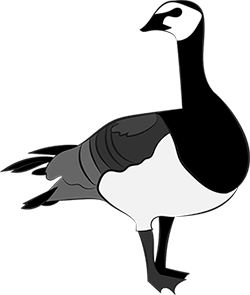
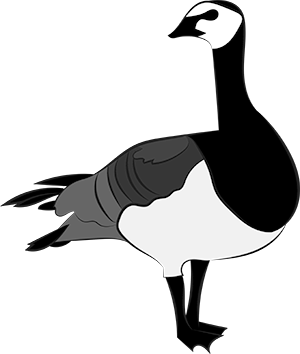
Small fixes

diff --git a/index.html b/index.html
@@ -31,7 +31,7 @@
 				<div class="collapse navbar-collapse row" id="bs-example-navbar-collapse-1">
 					<ul class="nav navbar-nav" id="dropdown">
 						<li>
-							<a href="#first-page" class="color-change">Main</a>
+							<a href="#first-page" class="color-change">About</a>
 						</li>
 						<li>
 							<a href="#second-page">Info</a>
@@ -57,7 +57,7 @@
 							<a class="colorChange" href="#first-page">Main</a>
 						</li>
 						<li id="news">
-							<a href="#second-page">Info</a>
+							<a href="#second-page">About</a>
 						</li>
 						<li id="contact">
 							<a href="#third-page">Map</a>
@@ -88,16 +88,20 @@
 	<!-- SECOND PAGE -->
 	<div class="container-fluid" id="second-page">
 		<div class="row">
+			<div class="content-area col-xs-6 col-sm-3 col-sm-offset-1">
+				<img class="img-responsive" id="goose" src="images/hanhi2.png" alt="" />
+			</div>
 			<div class="content-area col-xs-12 col-sm-6 col-sm-offset-1">
 				<section>
 					<article class="basic-text">
-						<h2>Info</h2>
-						Lorem ipsum dolor sit amet, consectetuer adipiscing elit. Sed posuere interdum sem. Quisque ligula
-						eros ullamcorper quis, lacinia quis facilisis sed sapien. Mauris varius diam vitae arcu. Sed arcu lectus auctor vitae,
-						consectetuer et venenatis eget velit. Sed augue orci, lacinia eu tincidunt et eleifend nec lacus. Donec ultricies nisl
-						ut felis, suspendisse potenti. Lorem ipsum ligula ut hendrerit mollis, ipsum erat vehicula risus, eu suscipit sem libero
-						nec erat. Aliquam erat volutpat. Sed congue augue vitae neque. Nulla consectetuer porttitor pede. Fusce purus morbi
-						tortor magna condimentum vel, placerat id blandit sit amet tortor.
+						<h2>About the campaign</h2>
+						Sort Out Your Campus is a student-led initiative to make the Otaniemi area nicer for its people to live in. Our goal is to make recycling-related information easily accessible for residents, encouraging them to recycle more. On this page you will find overall information gathered for you, as well as weekly posts guiding you how to conquer tricky recycling situations. And always remember – <strong>don’t be a goose</strong>!<br><br>
+						<hr>
+						<h4>Useful links for recycling in Otaniemi</h4><br>
+
+						<a href="https://kierratyskeskus.ayy.fi/wiki/">Otaniemi Recycling Center web page</a> |
+						<a href="https://kierratyskeskus.ayy.fi/aukiolo/">opening hours</a> |
+						<a href="https://kierratyskeskus.ayy.fi/wiki/index.php/Recycling/ItemDatabase">list of containers and what to put in them</a>
 					</article>
 				</section>
 			</div>

diff --git a/css/style.css b/css/style.css
@@ -3,12 +3,11 @@ a {
 }
 
 #goose {
-	position: fixed;
-	bottom:120px;
+	bottom:170px;
 }
 
 #first-page {
-	height: 100vh;
+	height: 90vh;
 }
 
 #second-page {
@@ -90,13 +89,13 @@ h2 {
 #slogan-wraper {
 	font-family: 'Montserrat', sans-serif;
 	color: #fff;
-	font-size: 40px;
+	font-size: 38px;
 	margin-top: 60px;
 	margin-left: 100px;
 }
 
 #slogan {
-	margin-top: 50px;
+	margin-top: 30px;
 }
 
 #slogan span {

diff --git a/js/main.js b/js/main.js
@@ -20,7 +20,7 @@ $(document).ready(function() {
       $("#animation_link a").removeClass("colorChange");
       normalizeNavbar();
     }
-    if ($("#second-page").offset().top - $(window).scrollTop() < 530) {
+    if ($("#second-page").offset().top - $(window).scrollTop() < 500) {
       releaseNav = false;
       fixedNavbar();
       $("#news a").addClass("colorChange");
